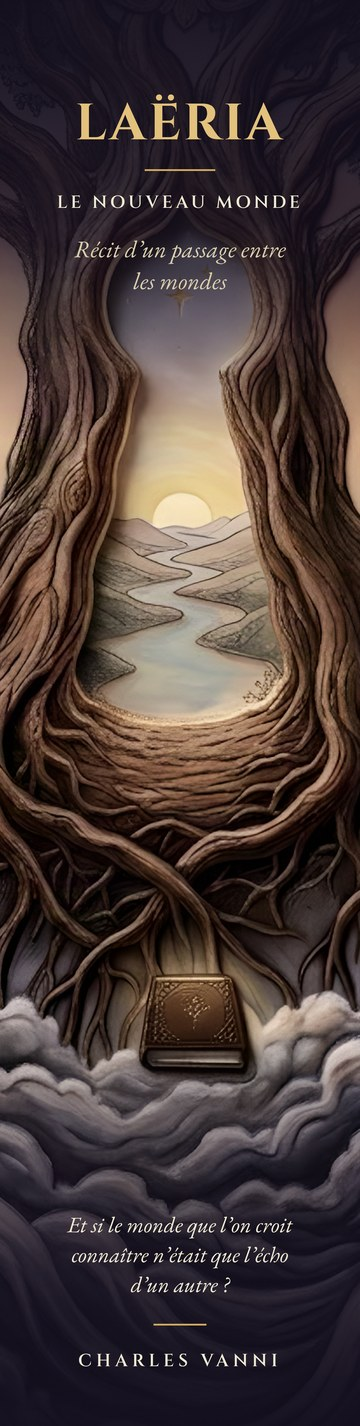
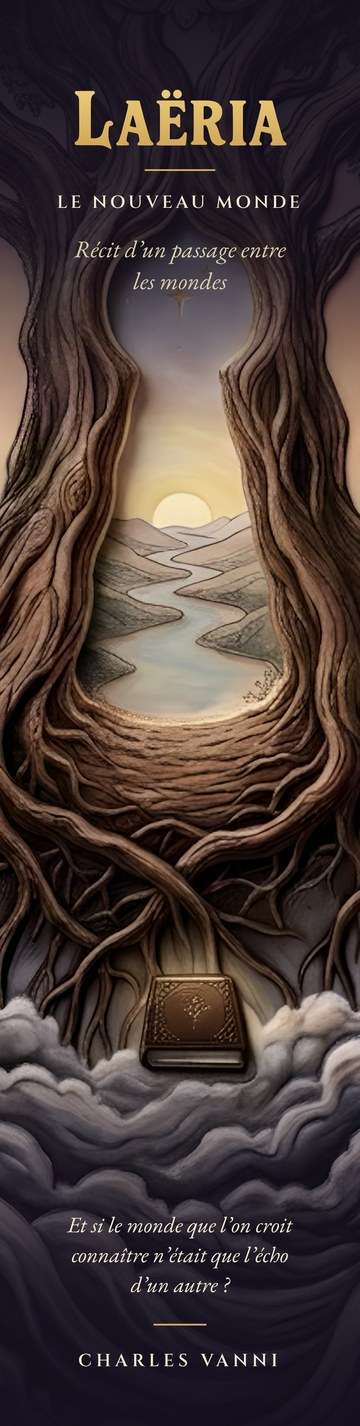
Marque-page mis à jour (titre en Laeria Titre) et pied de page en Laeria Titre
Claude-Session: https://claude.ai/code/session_013GcFnf488HqfLMNjB5ucSc

Changed region(s): [[0.2139, 0.0617, 0.7944, 0.1234]]

diff --git a/index.html b/index.html
@@ -849,7 +849,7 @@ footer p{color:var(--parch-dim);font-style:italic;margin-top:.4rem}
 <footer>
   <div class="wrap">
     <div class="ornament" style="width:min(360px,80%);margin-inline:auto" aria-hidden="true"><svg><use href="#star"/></svg></div>
-    <div class="t">Laëria, Le Nouveau Monde</div>
+    <div class="t"><span class="lt-mot">Laëria</span>, Le Nouveau Monde</div>
     <p>Récit d’un passage entre les mondes · Tome I · Charles Vanni</p>
   </div>
 </footer>
@@ -1170,6 +1170,7 @@ window.LAERIA_COMMANDES_OUVERTES = false;
 .hero-in h1,.laeria h2.laeria-mot{font-family:"Laeria Titre","Cinzel Decorative",Georgia,serif;font-weight:400;letter-spacing:.04em}
 .laeria h2.laeria-mot{font-size:clamp(2.6rem,6vw,4.4rem);text-transform:none}
 .syl b{font-family:"Laeria Titre","Cinzel Decorative",Georgia,serif;font-weight:400;font-size:clamp(2.8rem,4.6vw,3.8rem);letter-spacing:.04em}
+footer .t .lt-mot{font-family:"Laeria Titre","Cinzel Decorative",Georgia,serif;font-weight:400;letter-spacing:.04em}
 .brand{font-family:"Laeria Titre Fin","Cinzel Decorative",Georgia,serif;font-weight:400;font-size:1.25rem;letter-spacing:.08em}
 </style>
 <style>
